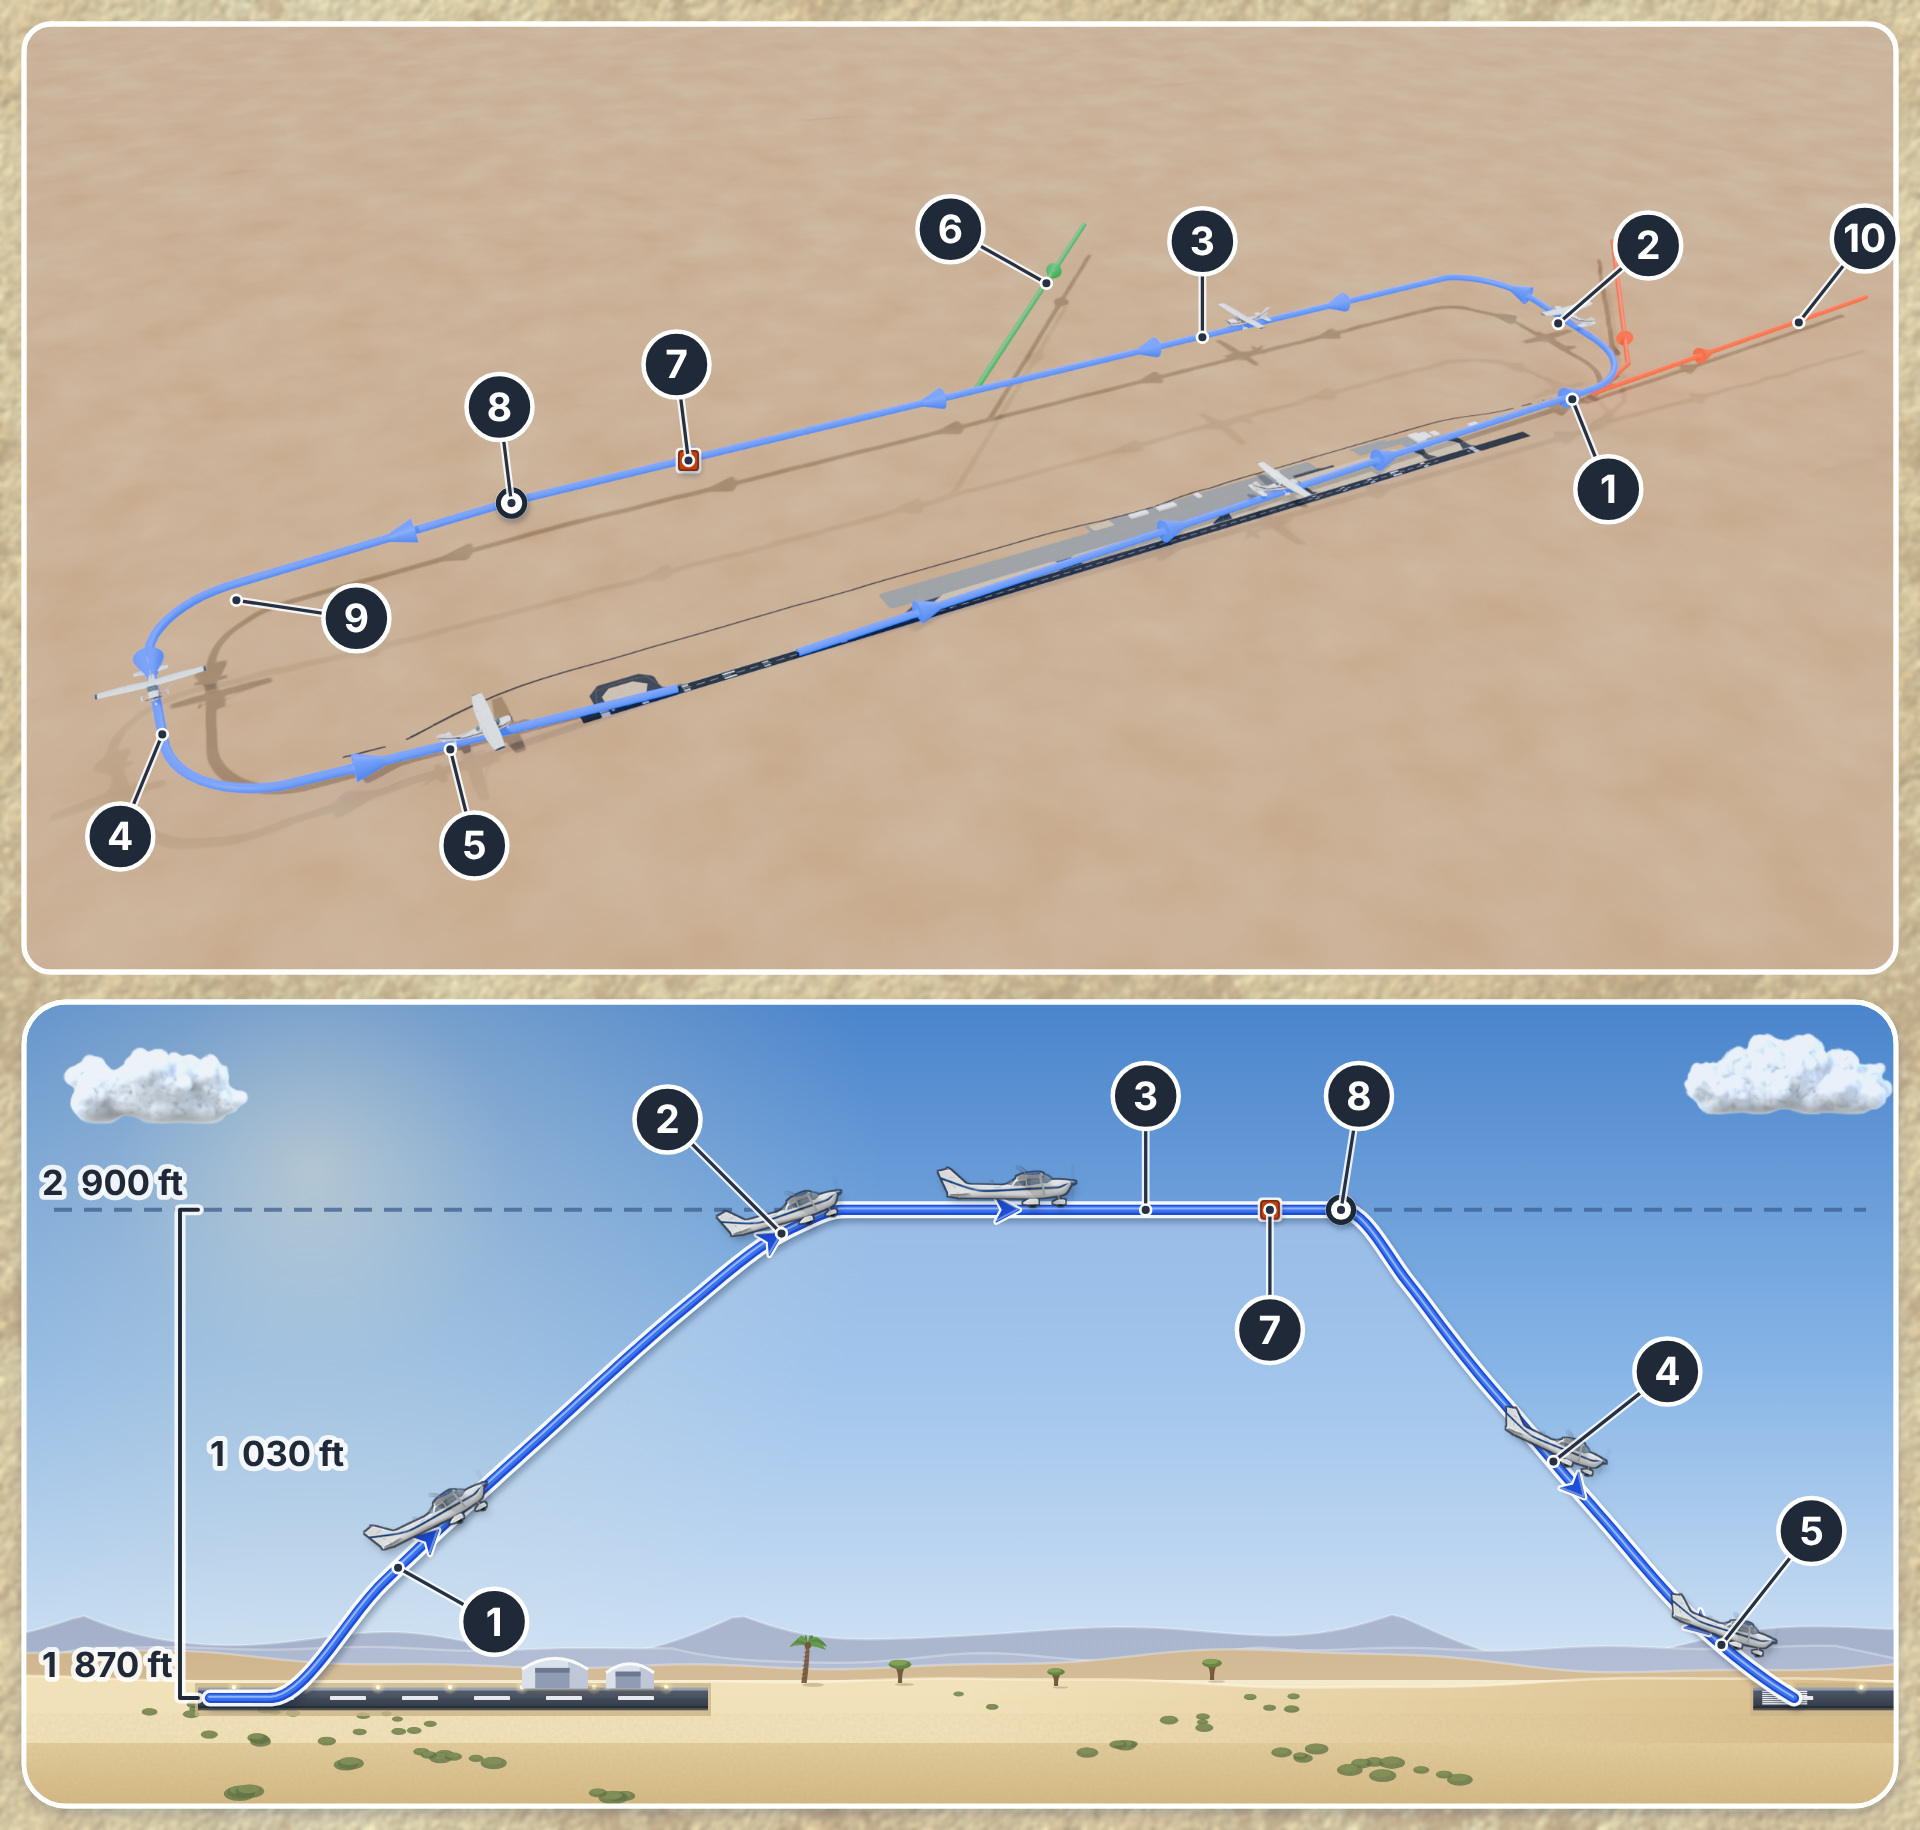
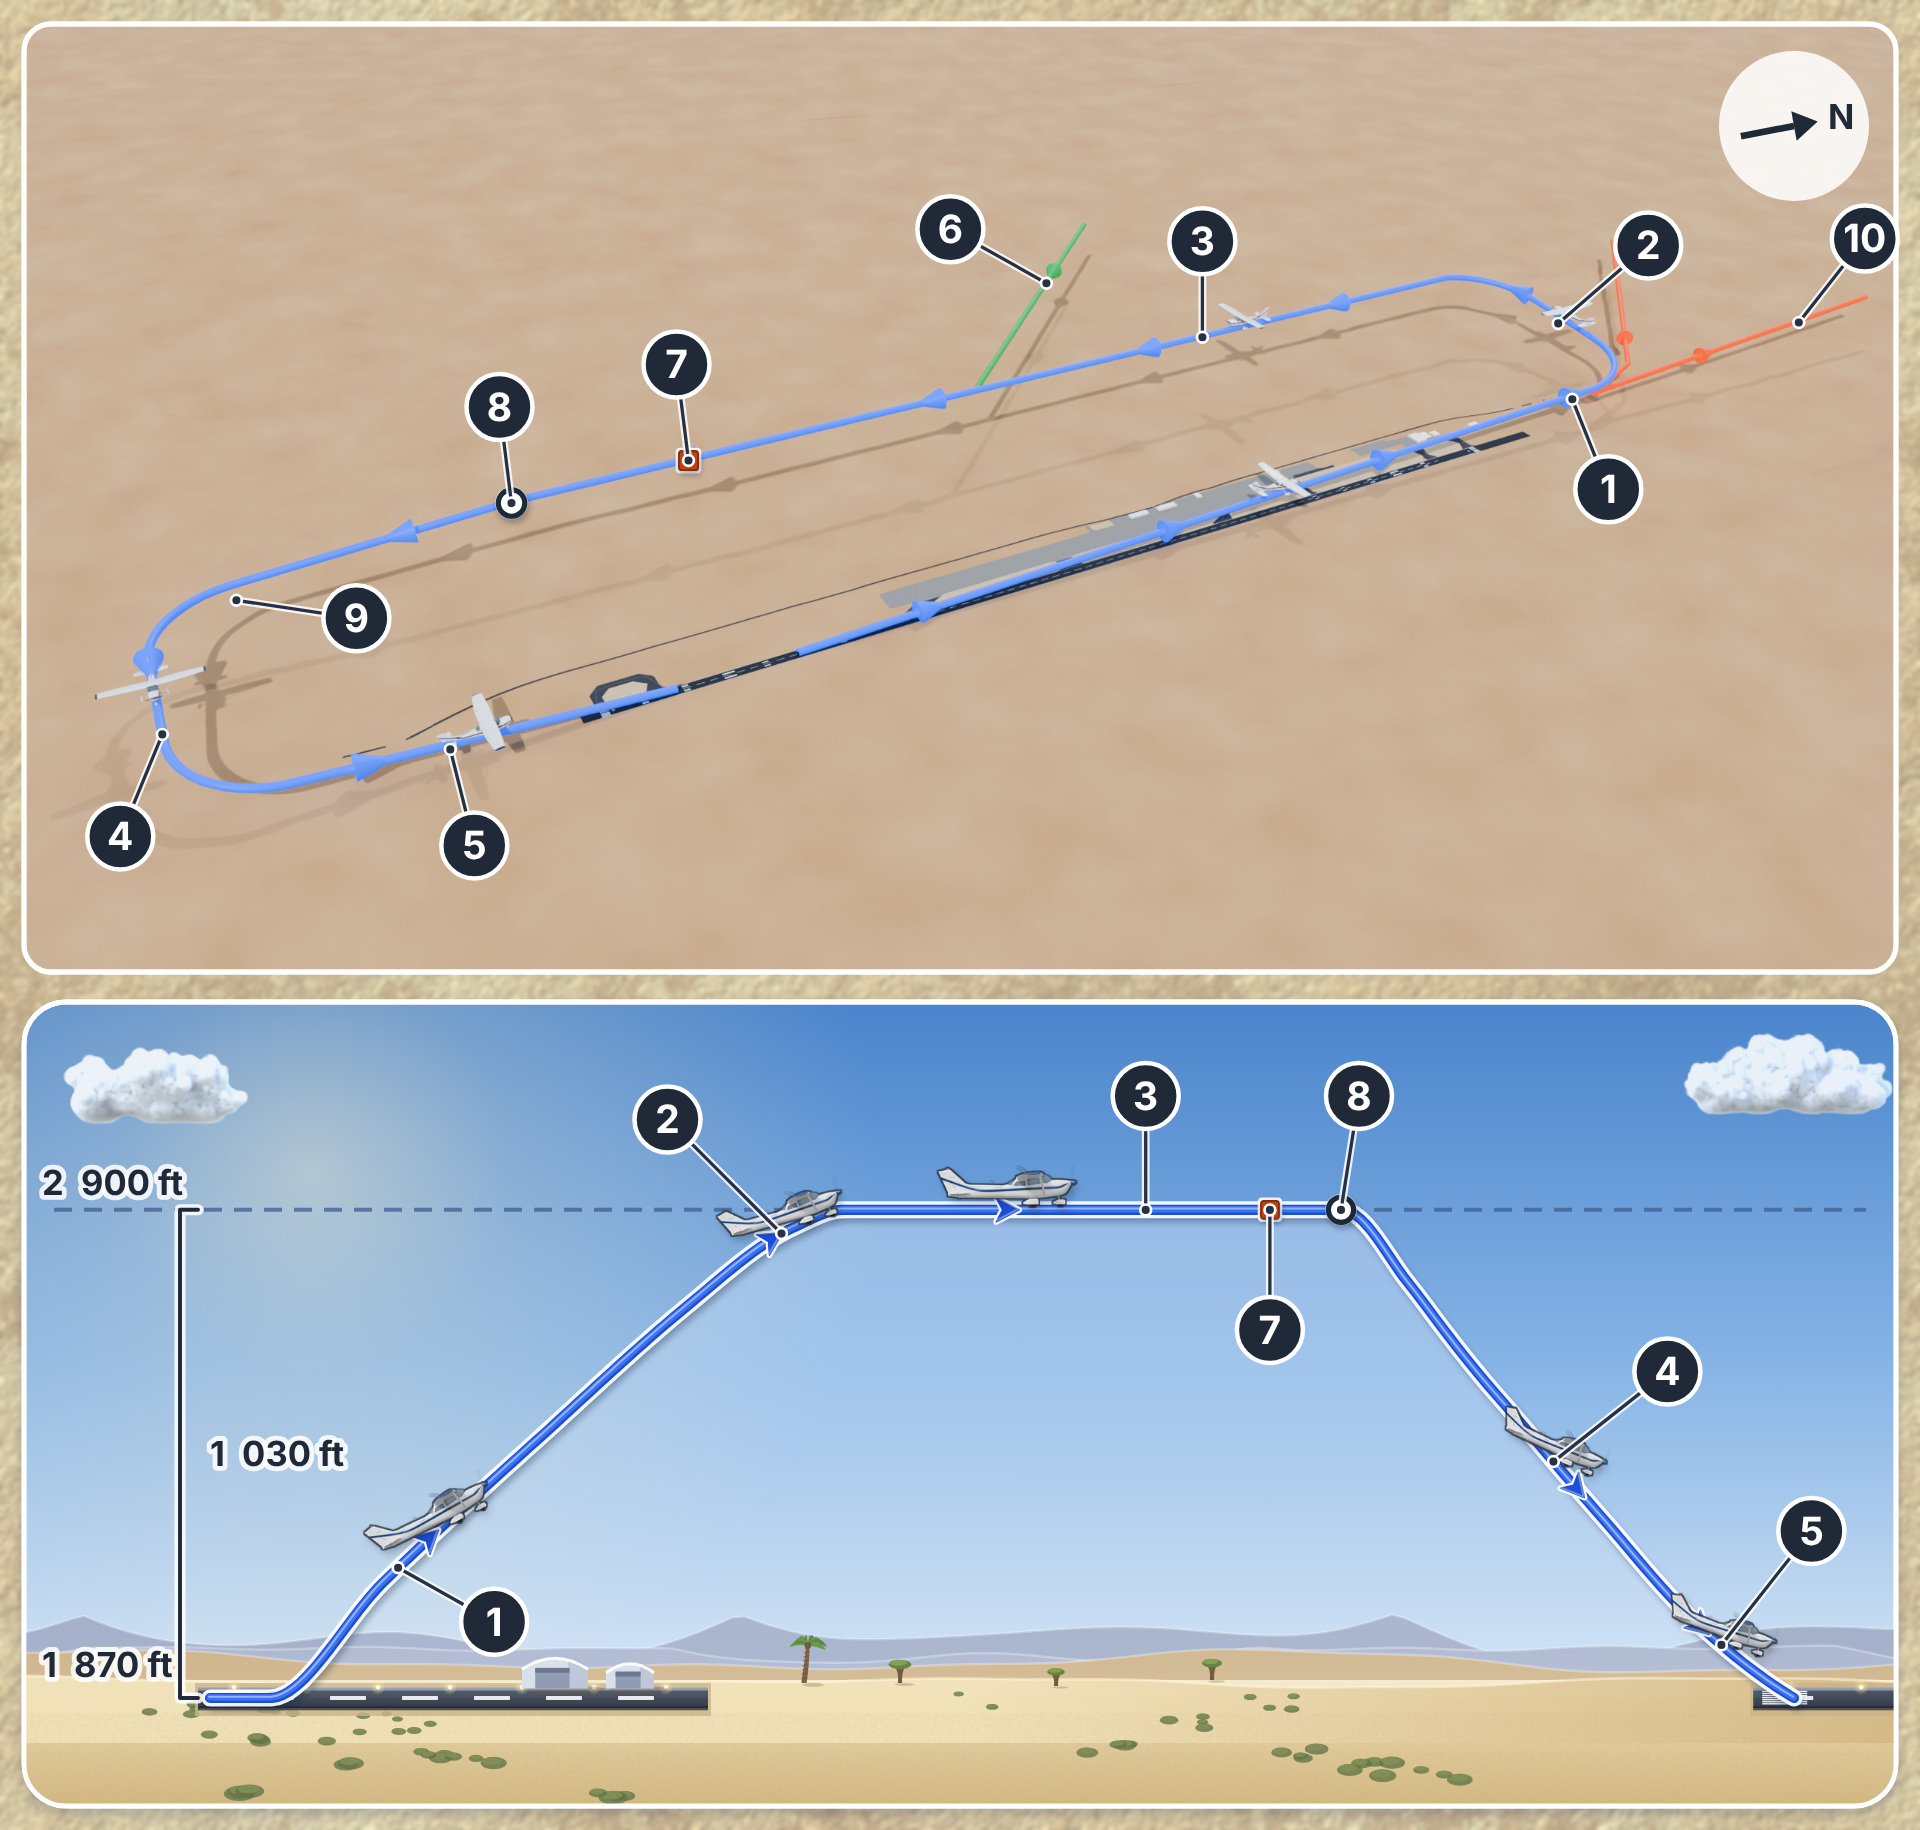
Handbook plates: north arrow in the 3D panel of 18-7, projected from the scene
figs/h_b4.north_arrow takes a direction; figs/oeth3d.py adds two ground anchors (the aerodrome reference point and 800 m north of it) whose
projection gives north in the picture (to the right, from the south-east). Docstring and desc corrected (aeroplanes enlarged 30 times; open plan). Editorial draft.

Claude-Session: https://claude.ai/code/session_01GaKzbGvzg6oJZTLUkbk9TR

Changed region(s): [[0.875, 0.0311, 0.9688, 0.1246]]

diff --git a/09_book_figures/handbook/figs/f_18_07_circuit.py b/09_book_figures/handbook/figs/f_18_07_circuit.py
@@ -1,9 +1,9 @@
 """Figure 18-7 (the Saudi round). The aerodrome traffic circuit from above and from the side: runway 35 at Thumamah (OETH).
 
 Top panel (redrawn in 3D in the airport round): Thumamah from the south-east, rendered from the 3D scene of the aerodrome in the saudi-airspace repository (runway from AD 2 OETH 2.12,
-pavements and buildings traced from imagery, SRTM terrain) by blender/render_oeth.py, with the left-hand circuit of runway 35 as a blue tube at its heights (its shadow lies on the ground),
-arrowheads along it, the 45 degree join in green, the two ways of leaving in orange and five aeroplanes of the C172 model, enlarged 20 times, on the legs (figs/oeth3d.py builds the recipe from
-the same circuit as before: 1 000 m out, turns of 300 m radius). The checks (a square) and the abeam point (a ring) are drawn on the picture. Bottom panel: the circuit unrolled, the
+SRTM terrain; its imagery-traced pavements and buildings replaced by the open plan of figs/h_b4.py) by blender/render_oeth.py, with the left-hand circuit of runway 35 as a blue tube at its heights (its shadow lies on the ground),
+arrowheads along it, the 45 degree join in green, the two ways of leaving in orange and five aeroplanes of the C172 model, enlarged 30 times, on the legs (figs/oeth3d.py builds the recipe from
+the same circuit as before: 1 000 m out, turns of 300 m radius). The checks (a square), the abeam point (a ring) and north (an arrow projected from the scene) are drawn on the picture. Bottom panel: the circuit unrolled, the
 ground at 1 870 ft and the downwind leg at 2 900 ft AMSL. The AIP (AD 2.22.2) gives the directions (35 left-hand, 17 right-hand, both on the west side) and the altitude (2 900 ft AMSL,
 1 030 ft above the aerodrome) and nothing about the size of the circuit: its rectangle is illustrative. Thumamah has no windsock in the AIP: none is drawn."""
 from figs import h_a1 as A1
@@ -49,7 +49,9 @@ def plan3d():
     clip = (f'<defs><clipPath id="c3dp"><rect x="{PX}" y="{PY}" width="{PW}" height="{PH}" rx="9"/></clipPath></defs><g clip-path="url(#c3dp)">')
     img = {"name": R3D, "at": [PX + PW / 2, PY + PH / 2], "width": PW}
     marks = B.square_mark(*at("7")) + B.ring(*at("8"))
-    return [clip, img, marks + "</g>" + f'<rect x="{PX}" y="{PY}" width="{PW}" height="{PH}" rx="9" fill="none" stroke="#FFFFFF" stroke-width="1.8"/>']
+    (x0, y0), (x1, y1) = at("n0"), at("n1")
+    north = B.north_arrow(PX + PW - 34, PY + 34, (x1 - x0, y1 - y0))
+    return [clip, img, marks + north + "</g>" + f'<rect x="{PX}" y="{PY}" width="{PW}" height="{PH}" rx="9" fill="none" stroke="#FFFFFF" stroke-width="1.8"/>']
 
 
 def plan_markup():
@@ -194,7 +196,7 @@ def plate():
         "replaces": "fig-18-07-circuit.svg",
         "book_file": "plate-18-07-circuit.jpg",
         "caption": "Figure 18-7. The aerodrome traffic circuit from above and from the side: runway 35 at Thumamah",
-        "desc": "Figure 18-7. The aerodrome traffic circuit from above and from the side: runway 35 at Thumamah. Above, the aerodrome in 3D from the south-east with the left-hand circuit at its heights and its shadow on the ground, the 45 degree join and the two ways of leaving; the aeroplanes are enlarged. The shape of the circuit is illustrative, its direction and altitude are the AIP's (AMDT 11/26); not for navigation.",
+        "desc": "Figure 18-7. The aerodrome traffic circuit from above and from the side: runway 35 at Thumamah. Above, the aerodrome in 3D from the south-east with the left-hand circuit at its heights and its shadow on the ground, the 45 degree join and the two ways of leaving; the aeroplanes are enlarged and north is to the right, as the arrow shows. The shape of the circuit is illustrative, its direction and altitude are the AIP's (AMDT 11/26); not for navigation.",
         "legend": [
             "Upwind leg: climb straight ahead after takeoff.",
             "Crosswind leg, at right angles to the runway beyond its end.",

diff --git a/09_book_figures/handbook/figs/h_b4.py b/09_book_figures/handbook/figs/h_b4.py
@@ -349,10 +349,11 @@ def frame(x, y, w, h, r=9.0):
             f'<rect x="{x}" y="{y}" width="{w}" height="{h}" rx="{r}" fill="none" stroke="#6B6247" stroke-opacity="0.75" stroke-width="0.8"/>')
 
 
-def north_arrow(cx, cy):
-    """A disc with the arrow of north (in the runway frame north is (-0.9872, -0.1593) on the page: to the left, a little up), the N beside the head."""
+def north_arrow(cx, cy, v=None):
+    """A disc with the arrow of north (in the runway frame north is (-0.9872, -0.1593) on the page: to the left, a little up), the N beside the head.
+    v: the direction of north on the page where it is not the runway frame's (a 3D view: two ground points projected)."""
     nt, ns = PLAN["runway"]["north_in_ts_per_m"]
-    vx, vy = ns, nt
+    vx, vy = v if v is not None else (ns, nt)
     m = math.hypot(vx, vy)
     vx, vy = vx / m, vy / m
     ox, oy = cx - vx * 3.0, cy - vy * 3.0              # the arrow sits a little towards its tail, the N takes the head's side

diff --git a/09_book_figures/handbook/figs/oeth3d.py b/09_book_figures/handbook/figs/oeth3d.py
@@ -110,6 +110,7 @@ def circuit_recipe(rid, camera, size=(2400, 1220), scale=30.0, D=1000.0, R=300.0
         "5": a3(4500.0, 0.0, z=0.12 * top), "6": a3(sm - 900.0, D + 900.0), "7": a3(3300.0, D), "8": a3(B.S_S, D),
         "9": a3(B.S_S + D, D - R * 0.3, d=m["downwind_end"] + 120.0), "10": a3(-2100.0, 0.0, z=0.55 * top),
         "t35": a3(B.S_S, 0.0, z=0.0), "t17": a3(0.0, 0.0, z=0.0),
+        "n0": [0.0, 0.0, 0.0], "n1": [0.0, 800.0, 0.0],     # the aerodrome reference point and a point 800 m north of it: north in the picture
     }
     return {
         "id": rid, "camera": camera, "size": list(size), "samples": 96, "sun": {"elevation": 42, "azimuth": 120, "energy": 3.2}, "exposure": -0.3, "look": "AgX - High Contrast",
